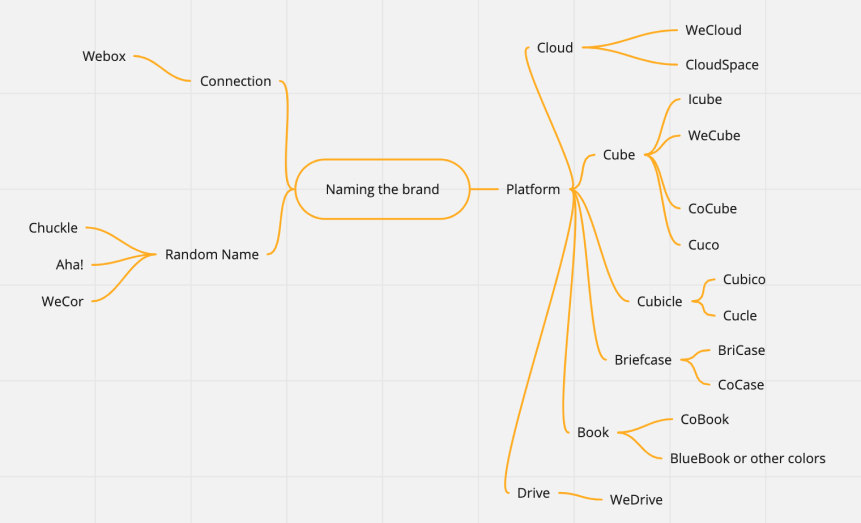
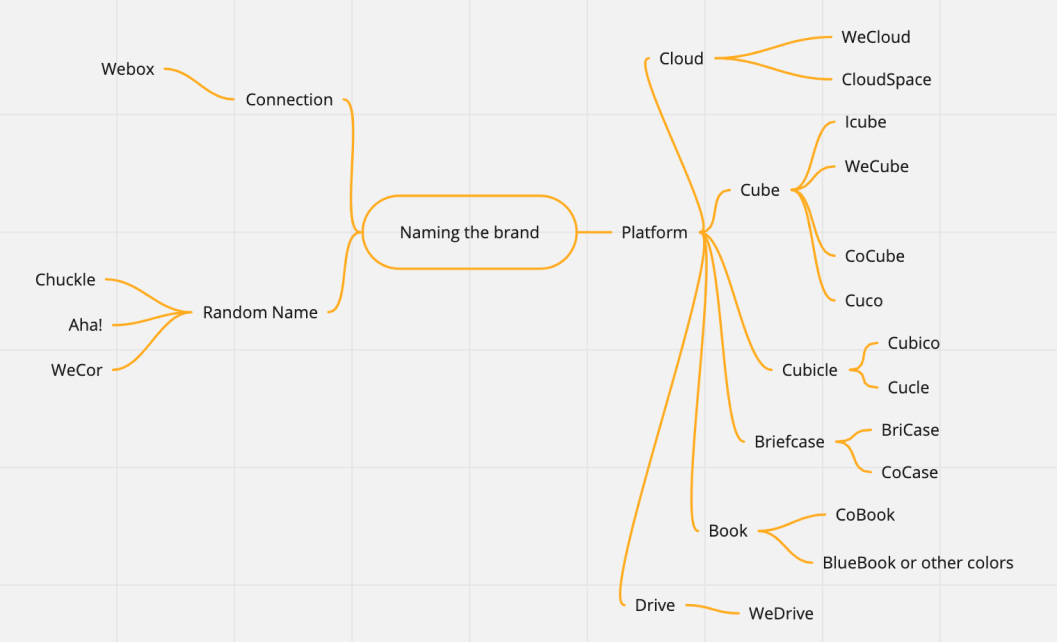
update Wecloud mindmap

diff --git a/project-wecloud.html b/project-wecloud.html
@@ -249,7 +249,7 @@ What are the deterrents that make them look for another app/website?<br>How do t
               and “We” indicates the collaboration between people.</p>
            </div>
             <div class="right">
-              <img src="image/MindMap.svg" alt="Mind Map">
+              <img src="image/MindMap.jpg" alt="Mind Map">
             </div>
           </div>
 

diff --git a/css/style.css b/css/style.css
@@ -3604,6 +3604,11 @@ footer .Email img{
   margin-left: auto;
   margin-right: auto;
 	text-align: center;
+  width: 60%;
+}
+
+.WeCloudIdentity .right img{
+  width: 100%;
 }
 
 /*Branding-logo*/
